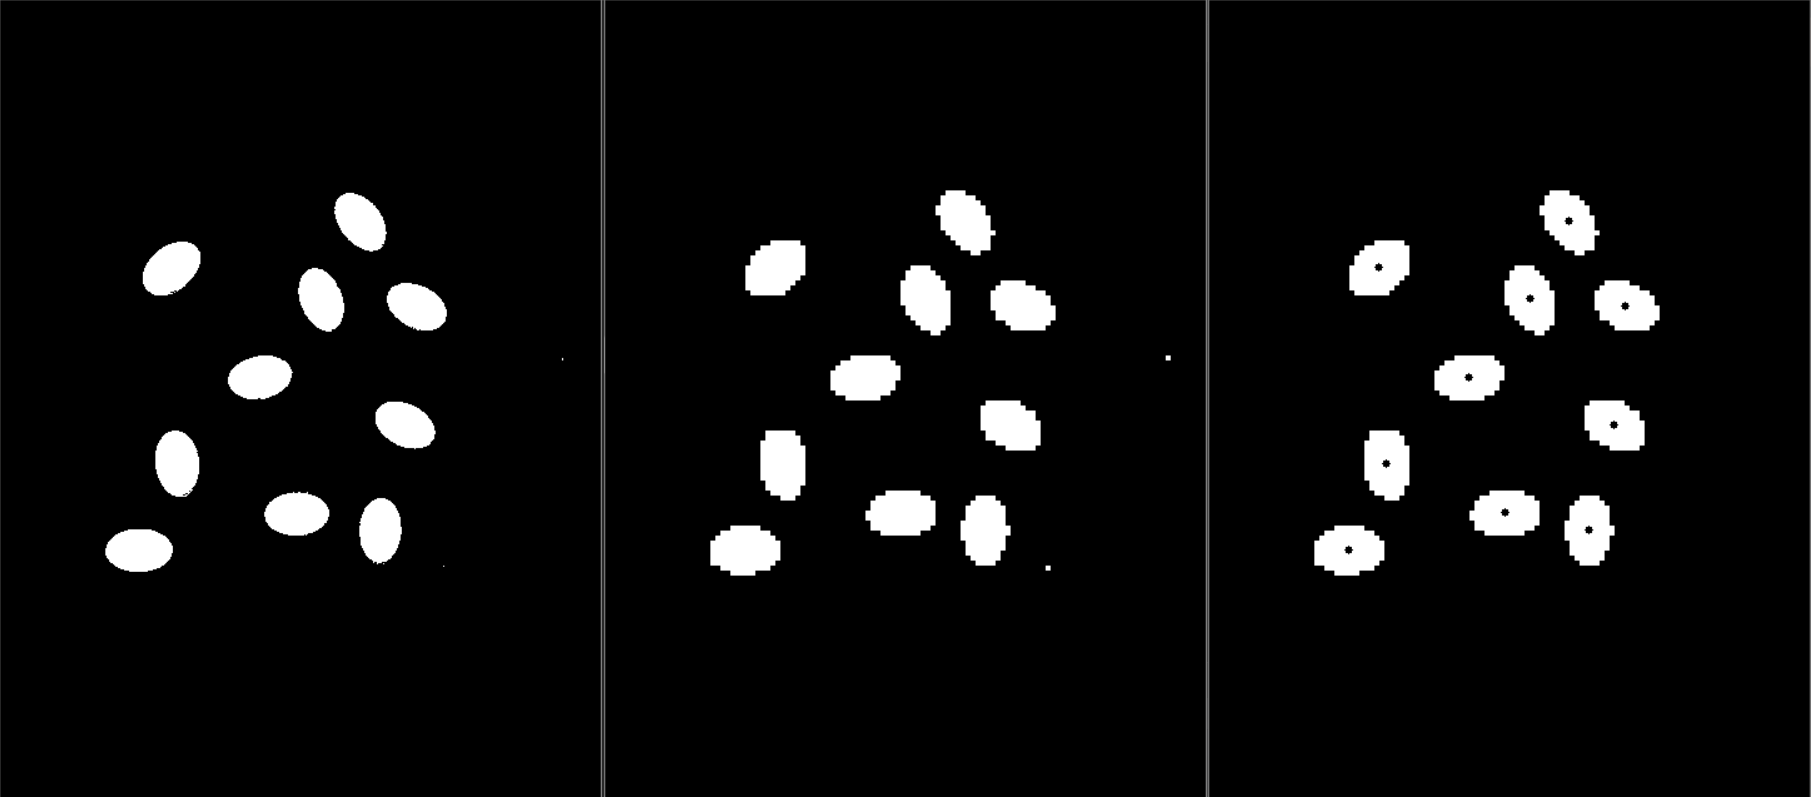
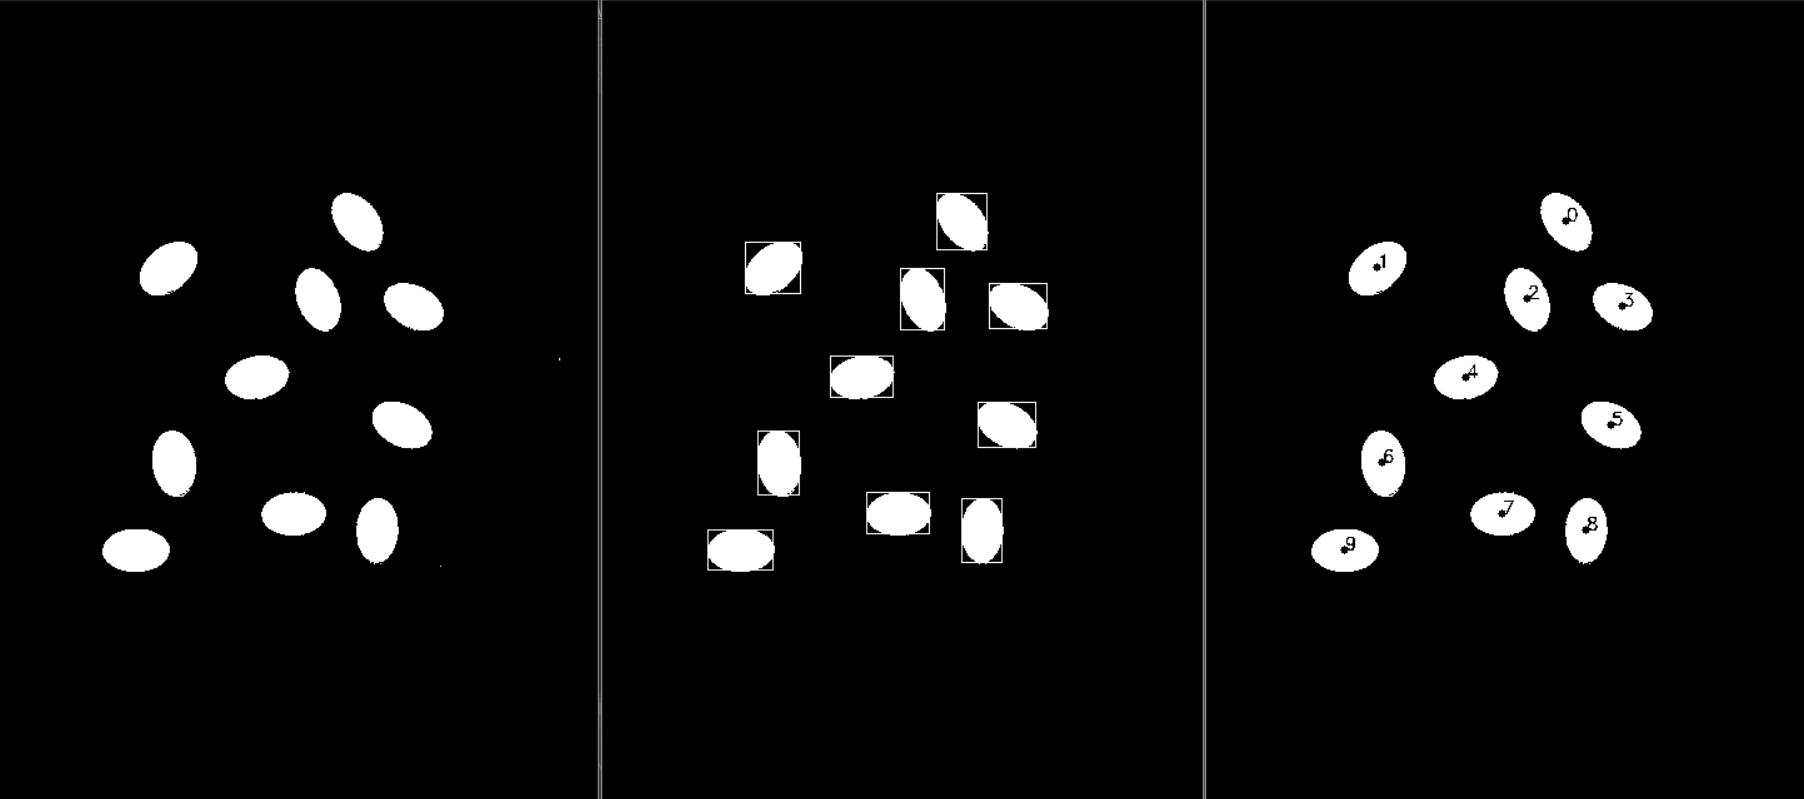
update

diff --git a/ImageCluster.cpp b/ImageCluster.cpp
@@ -66,7 +66,7 @@ int ImageCluster::init_kernel_size(int _kernel_width, int _kernel_height)
 	return 0;
 }
 
-int ImageCluster::cluster()
+int ImageCluster::cluster(int _threshold)
 {
 	if (!m_image_data)
 	{
@@ -80,8 +80,8 @@ int ImageCluster::cluster()
 	bool is_vailed = false;
 
 	std::deque<int> cluster_index_q;
-	std::vector<int> collect_index_vec;
-	std::vector<int> near_points;
+
+	std::vector<int> collect_index_vec, near_points;
 
 	for (int i = 0; i < m_kernel_vec.size(); ++i)
 	{
@@ -140,7 +140,7 @@ int ImageCluster::cluster()
 #endif // _DEBUG_
 
 	// convert kernel cluster int pixel cluster
-	convert_kernel_cluster();
+	convert_kernel_cluster(_threshold);
 
 	// get the center point of every cluster
 	get_center_of_clusters();
@@ -294,6 +294,8 @@ void ImageCluster::get_center_of_clusters()
 
 	for (int i = 0; i < m_center_cluster.size(); ++i)
 	{
+		cv::putText(center_image, std::to_string(i), m_center_cluster[i], cv::FONT_HERSHEY_DUPLEX, 0.5, cv::Scalar::all(0));
+
 		cv::circle(center_image, m_center_cluster[i], 3, cv::Scalar::all(0),-1);
 	}
 
@@ -304,7 +306,7 @@ void ImageCluster::get_center_of_clusters()
 #endif // _DEBUG_
 }
 
-void ImageCluster::convert_kernel_cluster()
+void ImageCluster::convert_kernel_cluster(int _threshold)
 {
 	for (int i = 0; i < m_total_cluster_kernels.size(); ++i)
 	{
@@ -319,10 +321,16 @@ void ImageCluster::convert_kernel_cluster()
 			get_start_point_by_index(tar_i, x, y);
 
 			collect_pixels(x, y, cluster_pixels);
-
 		}
 
-		m_total_cluster.push_back(cluster_pixels);
+		if (cluster_pixels.size() > _threshold)
+		{
+			m_total_cluster.push_back(cluster_pixels);
+		}
+		else
+		{
+			std::cerr << "[warning] one cluster's pixel is less, " << cluster_pixels.size() << std::endl;
+		}
 	}
 
 #ifdef _DEBUG_
@@ -333,8 +341,14 @@ void ImageCluster::convert_kernel_cluster()
 
 	cv::Mat cluster_image(cv::Size(m_width, m_height), CV_8UC1, cv::Scalar::all(0));
 
+	cv::Point2i p1, p2;
+
 	for (int i = 0; i < m_total_cluster.size(); ++i)
 	{
+		min_max_points_vec(p1, p2, m_total_cluster[i]);
+
+		cv::rectangle(cluster_image, cv::Rect(p1, p2), cv::Scalar::all(255), 1);
+
 		for (int j = 0; j < m_total_cluster[i].size(); ++j)
 		{
 			cluster_image.at<uchar>(m_total_cluster[i][j]) = 255;
@@ -357,9 +371,33 @@ void ImageCluster::collect_pixels(int _x, int _y, std::vector<cv::Point2i>& _clu
 	{
 		for (int k = _x; k < _x + m_kernel_width; ++k)
 		{
-			_cluster.push_back(cv::Point2i(k, j));
+			tar_i = j * m_width + k;
+
+			if (m_image_data[tar_i] == 255)
+			{
+				_cluster.push_back(cv::Point2i(k, j));
+			}
 		}
 	}
+}
+
+void ImageCluster::min_max_points_vec(cv::Point2i & _p1, cv::Point2i & _p2, std::vector<cv::Point2i>& points_vec)
+{
+	std::vector<int> x_vec, y_vec;
+	for (auto i : points_vec)
+	{
+		x_vec.push_back(i.x);
+
+		y_vec.push_back(i.y);
+	}
+
+	auto min_max_x = std::minmax_element(x_vec.begin(), x_vec.end());
+
+	auto min_max_y = std::minmax_element(y_vec.begin(), y_vec.end());
+
+	_p1 = cv::Point2i(*min_max_x.first, *min_max_y.first);
+
+	_p2 = cv::Point2i(*min_max_x.second, *min_max_y.second);
 }
 
 void ImageCluster::delete_pointer(unsigned char ** _ptr)

diff --git a/ImageCluster.h b/ImageCluster.h
@@ -23,7 +23,7 @@ public:
 	int init_kernel_size(int kernel_width, int kernel_height);
 
 	// run the cluster task
-	int cluster();
+	int cluster(int _threshold);
 
 private:
 	
@@ -43,10 +43,12 @@ private:
 	void get_center_of_clusters();
 
 	// convert kernel cluster into pixel cluster
-	void convert_kernel_cluster();
+	void convert_kernel_cluster(int _threshold);
 
 	// collect pixel from kernels
 	void collect_pixels(int _x, int _y, std::vector<cv::Point2i> & _cluster);
+
+	void min_max_points_vec(cv::Point2i & _p1, cv::Point2i &_p2, std::vector<cv::Point2i> & points_vec);
 
 	// delete pointer safely
 	void delete_pointer(unsigned char ** _ptr);

diff --git a/Source.cpp b/Source.cpp
@@ -31,9 +31,9 @@ int main()
 	
 	image_cluster.load_image(img_bin.data,img_bin.cols,img_bin.rows);
 
-	image_cluster.init_kernel_size(4, 4);
+	image_cluster.init_kernel_size(2, 2);
 
-	image_cluster.cluster();
+	image_cluster.cluster(20);
 
 	return 1;
 }
